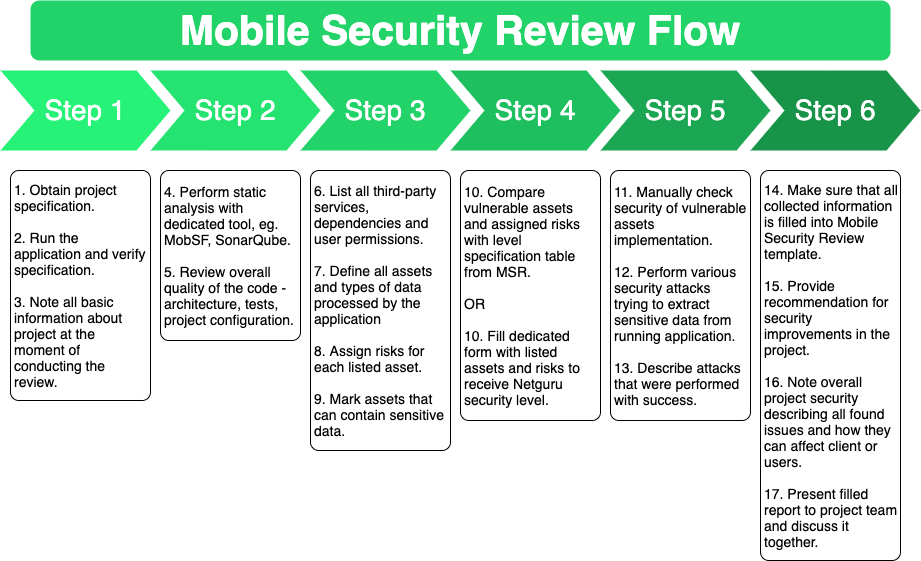
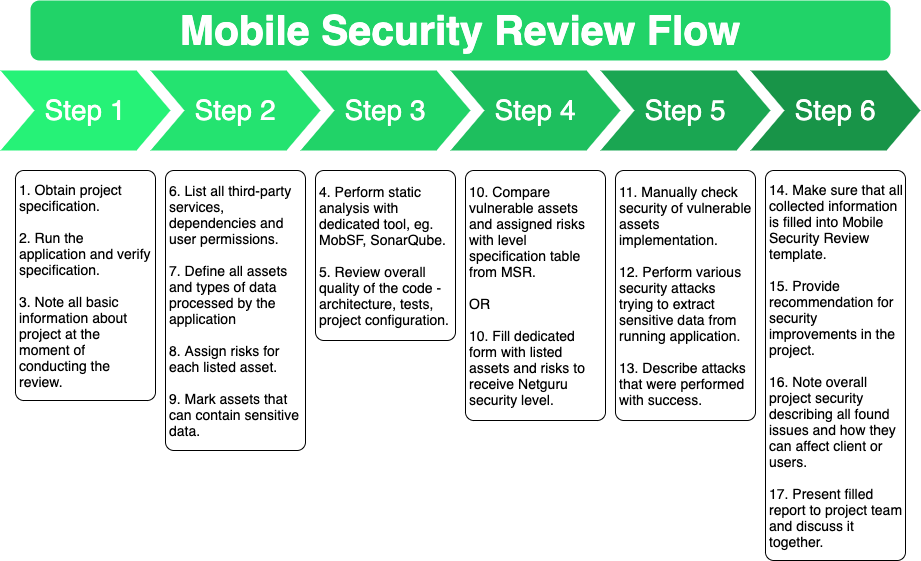
Update order of steps on Introduction page

Changed region(s): [[0.0, 0.303, 1.0, 1.0], [0.9729, 0.9697, 1.0, 1.0]]

diff --git a/Pages/01.Introduction.md b/Pages/01.Introduction.md
@@ -56,14 +56,14 @@ Netguru’s mobile security review process is performed in following steps:
     * Collecting information about the project from the team — target user and known flaws.
     * Running the application and checking what features are implemented and how it behaves.
     * Listing all basic information about project at the moment of conducting this review, eg. latest commit, git branch, build target etc.
-1. Code review and static analysis:
-    * Overall review of the project’s code quality, eg. architecture, configuration, tests.
-    * Static analysis with dedicated tools.
 1. Risk assessment:
     * Listing third-party services, dependencies and user permissions used in the project.
     * Defining all assets, types of data processed by the application, and deciding which can contain sensitive information.
 1. Security level assessment:
     * Assigning Netguru security level based on previous step. Can be based on information from MSR guide or [dedicated form](https://docs.google.com/forms/d/e/1FAIpQLSdDbjcmqbYWKV4XUJkTjg_mLK7PfENj1uO-J4fE90GRXl_bNw/viewform).
+1. Code review and static analysis:
+    * Overall review of the project’s code quality, eg. architecture, configuration, tests.
+    * Static analysis with dedicated tools.
 1. Analysis of security requirements:
     * Manually checking implementation of security measurements for sensitive assets.
     * Making use of various security breaches and testing tools to check if sensitive data can be extracted from project running on a user's device.
@@ -80,9 +80,9 @@ Basing on performed security reviews, we've estimated how much time it takes to 
 | Step                                        | Relative Time |
 |---------------------------------------------|:-------------:|
 | Project discovery                           |       2       |
-| Code review and static analysis             |       5       |
 | Risk assessment                             |      2.5      |
 | Security level assessment                   |      0.5      |
+| Code review and static analysis             |       5       |
 | Analysis of security requirements           |      8-13     |
 | Report creation                             |       3       |
 
@@ -90,7 +90,7 @@ Basing on performed security reviews, we've estimated how much time it takes to 
 
 The diagram presented below contains a complete Mobile Security Review flow with all the activities in each step.
 
-![Mobile Security Review Flow Chart](./Images/mobile_security_review_flow.png)
+![Mobile Security Review Flow](./Images/mobile_security_review_flow.png)
 
 ## Tools
 
